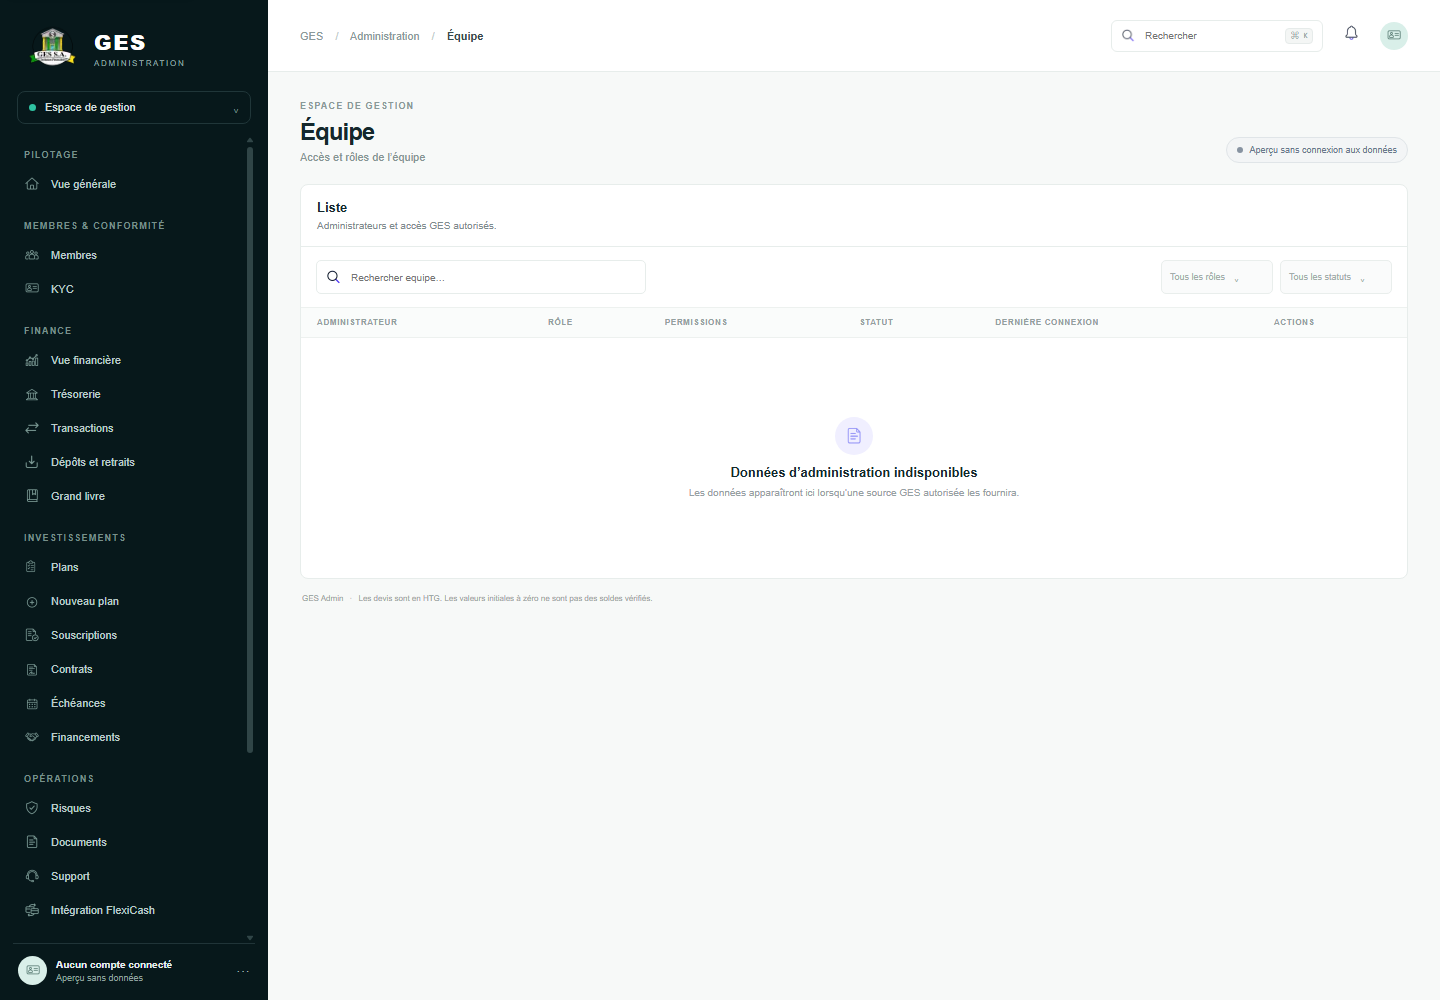
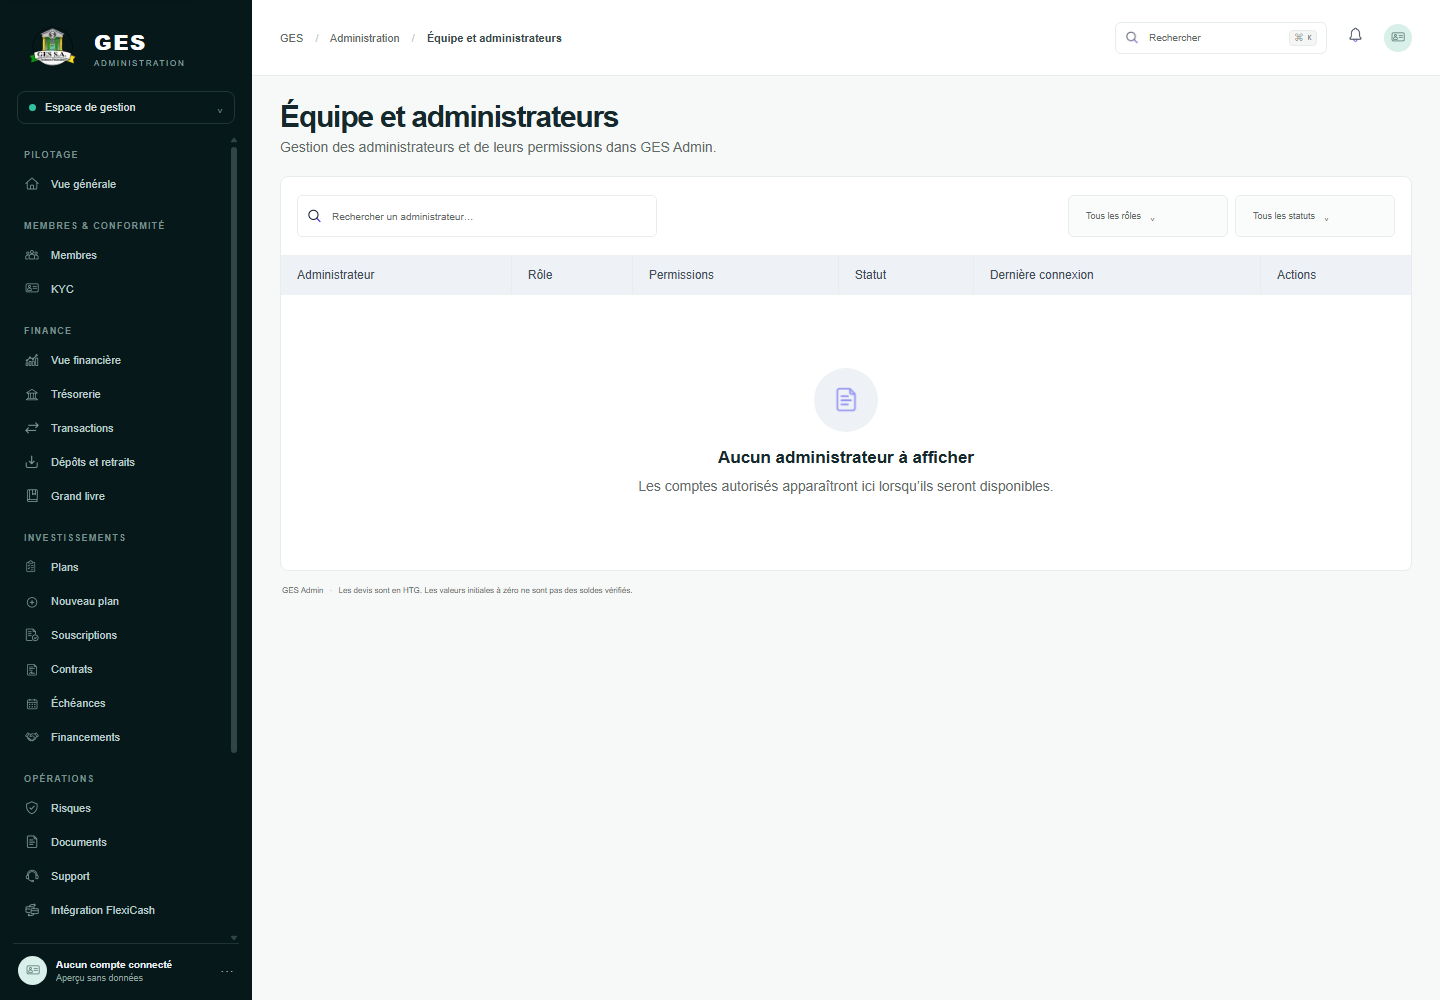
Align team workspace with MF-28

diff --git a/components/admin-shell.tsx b/components/admin-shell.tsx
@@ -26,7 +26,7 @@ const pages: Record<string, { title: string; subtitle: string }> = {
   "vue-financiere": { title: "Vue financière générale", subtitle: "Aperçu de la position financière de GES Admin en HTG et USD." }, tresorerie: { title: "Trésorerie", subtitle: "Positions de trésorerie" }, transactions: { title: "Transactions", subtitle: "Consultez et gérez l’ensemble des transactions." },
   "depots-retraits": { title: "Dépôts et retraits", subtitle: "Suivi des mouvements entrants et sortants" }, "grand-livre": { title: "Grand livre et rapprochement", subtitle: "Consultation du grand livre comptable et rapprochement des soldes." }, plans: { title: "Catalogue des plans d’investissement", subtitle: "Vue d’ensemble des plans d’investissement autorisés sur GES Admin." },
   souscriptions: { title: "Souscriptions", subtitle: "Vue d’ensemble des souscriptions effectuées sur GES Admin." }, contrats: { title: "Contrats d’investissement", subtitle: "Liste des contrats d’investissement enregistrés dans GES Admin." }, echeances: { title: "Échéances et distributions", subtitle: "Suivi des échéances et des distributions de capital et d’intérêts." }, financements: { title: "Financements GES", subtitle: "Gestion des dossiers de financement du GES Admin." }, "plans/nouveau": { title: "Nouveau plan d’investissement", subtitle: "Créer un nouveau plan d’investissement (brouillon)." },
-  risques: { title: "Risques et alertes", subtitle: "Surveillance des risques et des alertes de GES Admin." }, documents: { title: "Documents et notifications", subtitle: "Consultez les documents et les notifications de GES Admin." }, support: { title: "Assistance et tickets", subtitle: "Liste des demandes d’assistance et de support de GES Admin." }, rapports: { title: "Rapports et analyses", subtitle: "Analysez l’activité de GES Admin grâce à des rapports et des visualisations." }, equipe: { title: "Équipe", subtitle: "Accès et rôles de l’équipe" }, audit: { title: "Audit", subtitle: "Journal des actions administratives" }, parametres: { title: "Paramètres", subtitle: "Configuration de l’espace" }, notifications: { title: "Notifications", subtitle: "Centre de notifications administratives" }, "roles-permissions": { title: "Rôles et permissions", subtitle: "Les permissions effectives sont contrôlées côté serveur" }, "integrations-flexicash": { title: "Intégration FlexiCash", subtitle: "Les espaces GES et FlexiCash restent séparés" },
+  risques: { title: "Risques et alertes", subtitle: "Surveillance des risques et des alertes de GES Admin." }, documents: { title: "Documents et notifications", subtitle: "Consultez les documents et les notifications de GES Admin." }, support: { title: "Assistance et tickets", subtitle: "Liste des demandes d’assistance et de support de GES Admin." }, rapports: { title: "Rapports et analyses", subtitle: "Analysez l’activité de GES Admin grâce à des rapports et des visualisations." }, equipe: { title: "Équipe et administrateurs", subtitle: "Gestion des administrateurs et de leurs permissions dans GES Admin." }, audit: { title: "Audit", subtitle: "Journal des actions administratives" }, parametres: { title: "Paramètres", subtitle: "Configuration de l’espace" }, notifications: { title: "Notifications", subtitle: "Centre de notifications administratives" }, "roles-permissions": { title: "Rôles et permissions", subtitle: "Les permissions effectives sont contrôlées côté serveur" }, "integrations-flexicash": { title: "Intégration FlexiCash", subtitle: "Les espaces GES et FlexiCash restent séparés" },
 };
 
 const detailPages: Record<string, { title: string; subtitle: string }> = {
@@ -148,7 +148,7 @@ export function AdminShell({ section }: { section: string }) {
     </aside>
     {menuOpen && <button className="drawer-backdrop visible" type="button" aria-label="Fermer le menu" tabIndex={-1} onClick={closeMenu}/>}
     <main className="main-area" id="main-content" tabIndex={-1} inert={menuOpen}><header className="topbar"><button ref={menuButtonRef} className="mobile-menu-toggle" onClick={() => menuOpen ? closeMenu() : setMenuOpen(true)} aria-label={menuOpen ? "Fermer le menu" : "Ouvrir le menu"} aria-expanded={menuOpen} aria-controls="primary-navigation">{menuOpen ? <Image src="/assets/icons/close.webp" alt="" width={19} height={19}/> : <span className="menu-bars" aria-hidden="true"/>}</button><div className="breadcrumb">GES <span>/</span> Administration <span>/</span> <b>{page.title}</b></div><div className="top-actions"><label className="search"><Image src="/assets/icons/search.webp" alt="" width={15} height={15}/><input placeholder="Rechercher" aria-label="Rechercher" value={searchQuery} onChange={(event) => setSearchQuery(event.target.value)}/><kbd>⌘ K</kbd></label><Link href="/admin/notifications" className="bell" aria-label="Notifications"><Image src="/assets/icons/notification.webp" alt="" width={19} height={19}/></Link><div className="top-avatar"><Image src="/assets/icons/identity.webp" alt="" width={16} height={16}/></div></div></header>
-      <div className={`content ${key === "plans/nouveau" ? "plan-content" : ""}`}>{key === "souscriptions/dossier" && <Link className="detail-back" href="/admin/souscriptions">← Retour aux souscriptions</Link>}{key === "contrats/dossier" && <Link className="detail-back" href="/admin/contrats">← Retour aux contrats</Link>}{key === "risques/incident" && <Link className="detail-back" href="/admin/risques">← Retour aux alertes</Link>}{key === "support/conversation" && <Link className="detail-back" href="/admin/support">← Retour aux tickets</Link>}<div className="page-heading"><div>{key !== "transactions" && key !== "souscriptions/dossier" && key !== "contrats/dossier" && key !== "risques/incident" && key !== "support/conversation" && key !== "documents" && key !== "rapports" && <div className="eyebrow">ESPACE DE GESTION</div>}<h1>{page.title}</h1>{page.subtitle && <p>{page.subtitle}</p>}</div><div className="heading-actions">{key === "rapports" && <div className="reports-page-filters"><button className="filter-button" disabled>Tous les rapports <span>⌄</span></button><button className="filter-button" disabled><Image src="/assets/icons/calendar.webp" alt="" width={16} height={16}/> Période non sélectionnée <span>⌄</span></button></div>}{key !== "souscriptions/dossier" && key !== "contrats/dossier" && key !== "risques/incident" && key !== "support/conversation" && key !== "documents" && key !== "rapports" && <span className="status-pill preview-pill"><i/> Aperçu sans connexion aux données</span>}</div></div>
+      <div className={`content ${key === "plans/nouveau" ? "plan-content" : ""}`}>{key === "souscriptions/dossier" && <Link className="detail-back" href="/admin/souscriptions">← Retour aux souscriptions</Link>}{key === "contrats/dossier" && <Link className="detail-back" href="/admin/contrats">← Retour aux contrats</Link>}{key === "risques/incident" && <Link className="detail-back" href="/admin/risques">← Retour aux alertes</Link>}{key === "support/conversation" && <Link className="detail-back" href="/admin/support">← Retour aux tickets</Link>}<div className="page-heading"><div>{key !== "transactions" && key !== "souscriptions/dossier" && key !== "contrats/dossier" && key !== "risques/incident" && key !== "support/conversation" && key !== "documents" && key !== "rapports" && key !== "equipe" && <div className="eyebrow">ESPACE DE GESTION</div>}<h1>{page.title}</h1>{page.subtitle && <p>{page.subtitle}</p>}</div><div className="heading-actions">{key === "rapports" && <div className="reports-page-filters"><button className="filter-button" disabled>Tous les rapports <span>⌄</span></button><button className="filter-button" disabled><Image src="/assets/icons/calendar.webp" alt="" width={16} height={16}/> Période non sélectionnée <span>⌄</span></button></div>}{key !== "souscriptions/dossier" && key !== "contrats/dossier" && key !== "risques/incident" && key !== "support/conversation" && key !== "documents" && key !== "rapports" && key !== "equipe" && <span className="status-pill preview-pill"><i/> Aperçu sans connexion aux données</span>}</div></div>
       {key === "notifications" ? <NotificationsWorkspace query={searchQuery} onQueryChange={setSearchQuery}/> : key === "plans/nouveau" ? <><Link href="/admin/plans" className="plan-back">← Retour aux plans</Link><PlanForm/></> : overview ? <>{financial && <div className="module-notice">Valeurs initiales — les montants affichés sont à confirmer et ne constituent pas des soldes vérifiés.</div>}<div className={`metric-grid ${financial ? "financial-metrics" : ""}`}>{metrics.map(([label,value,caption])=><MetricCard key={label} label={label} value={value} caption={caption}/>)}</div>
       {financial && <UsdUnavailable/>}
       <div className={`overview-grid ${financial ? "financial-overview-grid" : "command-overview-grid"}`}><section className="panel"><div className="panel-head"><div><h2>{financial ? "Tendance de trésorerie" : "Tendance financière"}</h2></div>{financial && <button className="select-button" disabled title="Les données sont indisponibles">Période⌄</button>}</div><div className="chart-empty"><div className="chart-lines"><span/><span/><span/><span/></div><div className="chart-message">Aucune donnée disponible</div></div></section><section className="panel breakdown"><div className="panel-head"><div><h2>{financial ? "Obligations à venir" : "Répartition des investissements"}</h2></div>{financial && <button className="dots" disabled aria-label="Options indisponibles">···</button>}</div>{financial ? <div className="donut-wrap"><p>Aucune donnée disponible</p></div> : <div className="donut-wrap"><div className="donut"><div/></div><p>Aucune donnée disponible</p></div>}</section></div>

diff --git a/components/module-workspace.tsx b/components/module-workspace.tsx
@@ -13,6 +13,7 @@ type ModulePage = {
   searchPlaceholder?: string;
   showSearch?: boolean;
   toolbarTitle?: boolean;
+  variant?: string;
   tabs?: string[];
 };
 
@@ -28,7 +29,7 @@ const pages: Record<string, ModulePage> = {
   risques: { description: "Surveillez les risques et alertes disponibles pour GES.", searchPlaceholder: "Rechercher une alerte…", filters: ["Toutes les catégories", "Toutes les sévérités", "Tous les statuts"], columns: ["Sévérité", "Catégorie", "Entité GES", "Analyste assigné", "Statut", "Actions"], empty: "Aucune alerte disponible", emptyDescription: "Les alertes confirmées apparaîtront ici lorsqu’elles seront disponibles." },
   documents: { description: "Documents disponibles dans les espaces GES autorisés.", filters: ["Tous les types"], columns: ["DOCUMENT", "CATÉGORIE", "LIÉ À", "MODIFIÉ LE", "ÉTAT"], empty: "Données documentaires indisponibles" },
   support: { description: "Demandes d’assistance GES disponibles.", title: "Liste des tickets", toolbarTitle: true, searchPlaceholder: "Rechercher un ticket…", filters: ["Tous les statuts", "Toutes les catégories", "Toutes les priorités"], columns: ["Sujet", "Membre", "Catégorie", "Priorité", "Statut", "Dernière mise à jour", "Actions"], empty: "Aucun ticket à afficher", emptyDescription: "Les demandes d’assistance apparaîtront ici lorsqu’elles seront disponibles." },
-  equipe: { description: "Administrateurs et accès GES autorisés.", filters: ["Tous les rôles", "Tous les statuts"], columns: ["ADMINISTRATEUR", "RÔLE", "PERMISSIONS", "STATUT", "DERNIÈRE CONNEXION", "ACTIONS"], empty: "Données d’administration indisponibles" },
+  equipe: { description: "Gestion des administrateurs et de leurs permissions dans GES Admin.", searchPlaceholder: "Rechercher un administrateur…", filters: ["Tous les rôles", "Tous les statuts"], columns: ["Administrateur", "Rôle", "Permissions", "Statut", "Dernière connexion", "Actions"], empty: "Aucun administrateur à afficher", emptyDescription: "Les comptes autorisés apparaîtront ici lorsqu’ils seront disponibles.", variant: "team-list-panel" },
   audit: { description: "Journal des événements administratifs disponibles.", filters: ["Toutes les actions", "Tous les acteurs", "Période"], columns: ["DATE ET HEURE", "ACTEUR", "ACTION", "ENTITÉ CONCERNÉE", "RÉSULTAT", "DÉTAILS"], empty: "Données d’audit indisponibles" },
 };
 
@@ -91,5 +92,5 @@ if (sectionKey === "rapports") return <>
 }
 
 function GenericTable({ sectionKey, page, query, onQueryChange, activeTab, setActiveTab }: { sectionKey: string; page: ModulePage; query: string; onQueryChange: (value: string) => void; activeTab: number; setActiveTab: (value: number) => void }) {
-  return <section className={`panel list-panel module-list-panel ${page.showSearch === false ? "no-list-search" : ""}`}>{page.title && !page.toolbarTitle && <div className="module-panel-header"><div><h2>{page.title}</h2>{page.description && <p>{page.description}</p>}</div></div>}{page.tabs && <div className="module-tabs">{page.tabs.map((tab, index) => <button key={tab} className={activeTab === index ? "selected" : ""} onClick={() => setActiveTab(index)}>{tab}</button>)}</div>}{page.showSearch !== false && <div className={`module-toolbar ${page.toolbarTitle ? "module-toolbar-titled" : ""}`}>{page.toolbarTitle && <h2>{page.title}</h2>}<label className="filter-search"><Image src="/assets/icons/search.webp" alt="" width={16} height={16}/><input aria-label={`Rechercher dans ${sectionKey}`} placeholder={page.searchPlaceholder ?? `Rechercher ${sectionKey.replaceAll("-", " ")}…`} value={query} onChange={(event) => onQueryChange(event.target.value)}/></label><div className="module-filter-row">{page.filters.map((filter) => <button key={filter} className="filter-button" disabled>{filter.startsWith("Sélectionner une période") && <Image className="period-filter-icon" src="/assets/icons/calendar.webp" alt="" width={16} height={16}/>}<span className="filter-label">{filter}</span><span>⌄</span></button>)}</div></div>}<div className="table-wrap"><table><thead><tr>{page.columns.map((column, index) => <th key={column} className={column.includes("HTG") ? "align-right" : ""}>{column}</th>)}</tr></thead><tbody><tr><td colSpan={page.columns.length}><EmptyState title={page.empty} description={page.emptyDescription} searching={query.trim().length > 0}/></td></tr></tbody></table></div></section>;
+  return <section className={`panel list-panel module-list-panel ${page.showSearch === false ? "no-list-search" : ""} ${page.variant ?? ""}`}>{page.title && !page.toolbarTitle && <div className="module-panel-header"><div><h2>{page.title}</h2>{page.description && <p>{page.description}</p>}</div></div>}{page.tabs && <div className="module-tabs">{page.tabs.map((tab, index) => <button key={tab} className={activeTab === index ? "selected" : ""} onClick={() => setActiveTab(index)}>{tab}</button>)}</div>}{page.showSearch !== false && <div className={`module-toolbar ${page.toolbarTitle ? "module-toolbar-titled" : ""}`}>{page.toolbarTitle && <h2>{page.title}</h2>}<label className="filter-search"><Image src="/assets/icons/search.webp" alt="" width={16} height={16}/><input aria-label={`Rechercher dans ${sectionKey}`} placeholder={page.searchPlaceholder ?? `Rechercher ${sectionKey.replaceAll("-", " ")}…`} value={query} onChange={(event) => onQueryChange(event.target.value)}/></label><div className="module-filter-row">{page.filters.map((filter) => <button key={filter} className="filter-button" disabled>{filter.startsWith("Sélectionner une période") && <Image className="period-filter-icon" src="/assets/icons/calendar.webp" alt="" width={16} height={16}/>}<span className="filter-label">{filter}</span><span>⌄</span></button>)}</div></div>}<div className="table-wrap"><table><thead><tr>{page.columns.map((column, index) => <th key={column} className={column.includes("HTG") ? "align-right" : ""}>{column}</th>)}</tr></thead><tbody><tr><td colSpan={page.columns.length}><EmptyState title={page.empty} description={page.emptyDescription} searching={query.trim().length > 0}/></td></tr></tbody></table></div></section>;
 }

diff --git a/app/globals.css b/app/globals.css
@@ -75,3 +75,5 @@ a:focus-visible,button:focus-visible,input:focus-visible,select:focus-visible,te
 @media(max-width:700px){.support-workspace{gap:10px}.support-workspace>section{padding:12px}.support-list{min-height:260px}.support-thread{min-height:350px}.support-details{min-height:245px}.support-composer{gap:6px}.support-composer button{min-width:38px;width:38px;padding:0;font-size:0}.support-detail-row-icon{width:42px;height:42px}}
 .communications-panel{overflow:hidden;margin-bottom:12px}.communications-header{min-height:72px;display:flex;align-items:center;gap:14px;padding:12px 18px;border-bottom:1px solid var(--line)}.communications-header h2{flex:1;min-width:140px;margin:0;font:700 20px Arial,Helvetica,sans-serif}.communications-header .filter-search{height:42px;flex:0 1 320px;min-width:180px}.communications-header .filter-button{height:42px;min-width:180px;text-align:left}.communications-empty{min-height:326px;display:flex;align-items:center;justify-content:center;flex-direction:column;text-align:center;padding:22px}.communications-empty-icon{width:80px;height:80px;margin-bottom:14px;border-radius:50%;background:#f0f1f6;display:grid;place-items:center}.communications-empty-icon img{width:32px;height:32px;opacity:.72}.communications-empty h3{margin:0;font:700 18px Arial,Helvetica,sans-serif;color:#101418}.communications-empty p{max-width:360px;margin:8px 0 0;color:#7c88ac;font-size:15px;line-height:1.5}@media(max-width:760px){.communications-header{align-items:stretch;flex-wrap:wrap;gap:8px;padding:12px}.communications-header h2{flex:1 1 100%;font-size:17px}.communications-header .filter-search{flex:1 1 100%;max-width:none;min-width:0}.communications-header .filter-button{flex:1;min-width:0;height:38px}.communications-empty{min-height:235px;padding:18px}.communications-empty-icon{width:64px;height:64px}.communications-empty h3{font-size:15px}.communications-empty p{font-size:12px}}
 .reports-page-filters{display:flex;align-items:center;gap:10px}.reports-page-filters .filter-button{height:44px;min-width:220px;text-align:left}.reports-page-filters .filter-button:last-child{min-width:230px}.reports-page-filters .filter-button img{vertical-align:middle;margin-right:6px}.reports-analysis-panel,.reports-list-panel{padding:16px 20px;margin-bottom:12px}.reports-analysis-panel>h2,.reports-list-panel>h2{margin:0 0 16px;font:700 20px Arial,Helvetica,sans-serif}.reports-empty-state{min-height:300px;border:1px solid var(--line);border-radius:8px;display:flex;align-items:center;justify-content:center;flex-direction:column;text-align:center;padding:20px}.reports-list-panel .reports-empty-state{min-height:230px}.reports-empty-icon{width:76px;height:76px;border-radius:50%;background:#f0f1f6;display:grid;place-items:center;margin-bottom:14px}.reports-empty-icon img{width:30px;height:30px;opacity:.72}.reports-empty-state strong{font-size:18px;color:#101418}.reports-empty-state p{max-width:600px;margin:8px 0 0;color:#7c88ac;font-size:15px;line-height:1.5}@media(max-width:760px){.reports-page-filters{flex:1 1 100%;flex-wrap:wrap;gap:6px}.reports-page-filters .filter-button,.reports-page-filters .filter-button:last-child{flex:1;min-width:160px;height:38px}.reports-analysis-panel,.reports-list-panel{padding:13px}.reports-analysis-panel>h2,.reports-list-panel>h2{font-size:16px}.reports-empty-state{min-height:230px;padding:16px}.reports-list-panel .reports-empty-state{min-height:200px}.reports-empty-icon{width:64px;height:64px}.reports-empty-state strong{font-size:15px}.reports-empty-state p{font-size:12px}}
+.team-list-panel .module-empty{min-height:240px}.team-list-panel .module-empty h2{font-size:17px}.team-list-panel .module-empty p{font-size:14px}.team-list-panel .module-empty-icon{background:#eef1f5}
+.team-list-panel .module-empty{min-height:275px}.team-list-panel th{background:#eef1f6;border-right:1px solid var(--line);color:#3f4d57}.team-list-panel th:last-child{border-right:0}.team-list-panel .table-wrap{scrollbar-width:none}.team-list-panel .table-wrap::-webkit-scrollbar{display:none}

diff --git a/design/qa/README.md b/design/qa/README.md
@@ -168,3 +168,4 @@ Captures MF-24 : admin-support-1440x1000.png et admin-support-390x844.png. Aucun
 Captures MF-25 : admin-support-conversation-1440x1000.png et admin-support-conversation-390x844.png. La conversation vide indique clairement les tickets et details indisponibles; reponse desactivee sans conversation et autorisation confirmees. Aucun identifiant, message, statut, date ou montant fictif.
 Captures MF-26 : admin-documents-notifications-1440x1000.png et admin-documents-notifications-390x844.png. La route Documents presente les deux panneaux de la reference; recherche documentaire active, filtre de type et filtre de notifications inactifs faute de source GES. Aucun fichier, notification, identite, date ou montant fictif.
 Captures MF-27 : admin-rapports-1440x1000.png et admin-rapports-390x844.png. Rapports et analyses utilisent des filtres inactifs faute de source autorisee; vues analytiques et catalogue restent vides. Aucun chiffre, periode, rapport ou statut fictif.
+Captures MF-28 : admin-equipe-1440x1000.png et admin-equipe-390x844.png. Colonnes conformes au Master Frame; aucun administrateur, role, permission ou acces fictif. Recherche disponible, filtres inactifs sans source GES; tableau vide et defilable sur mobile.
